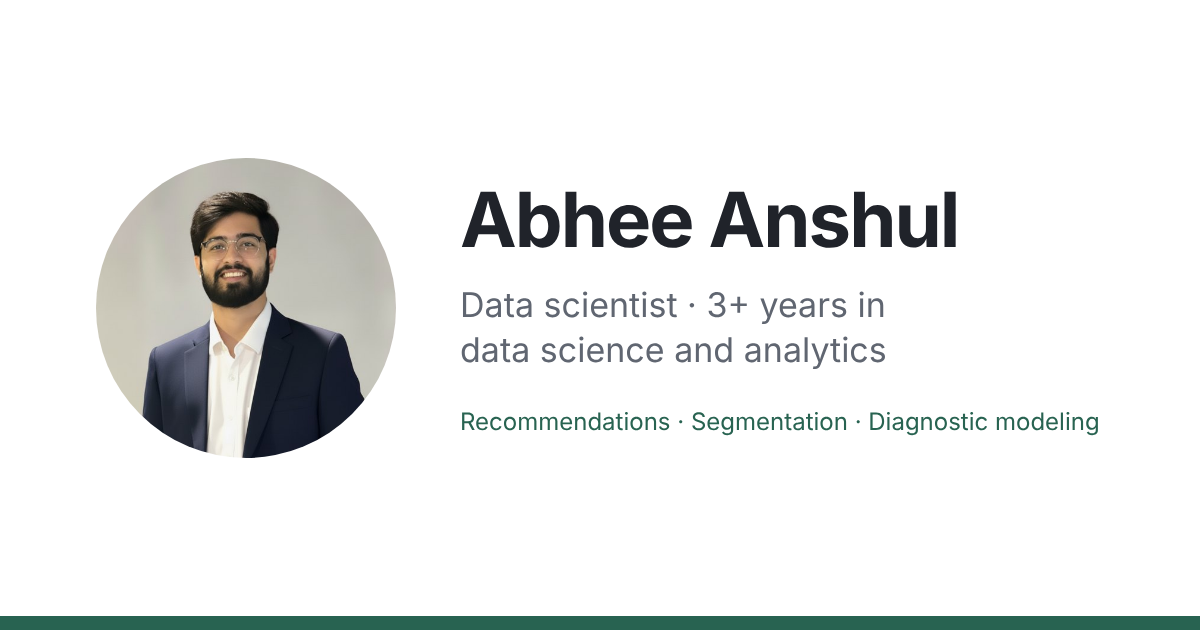
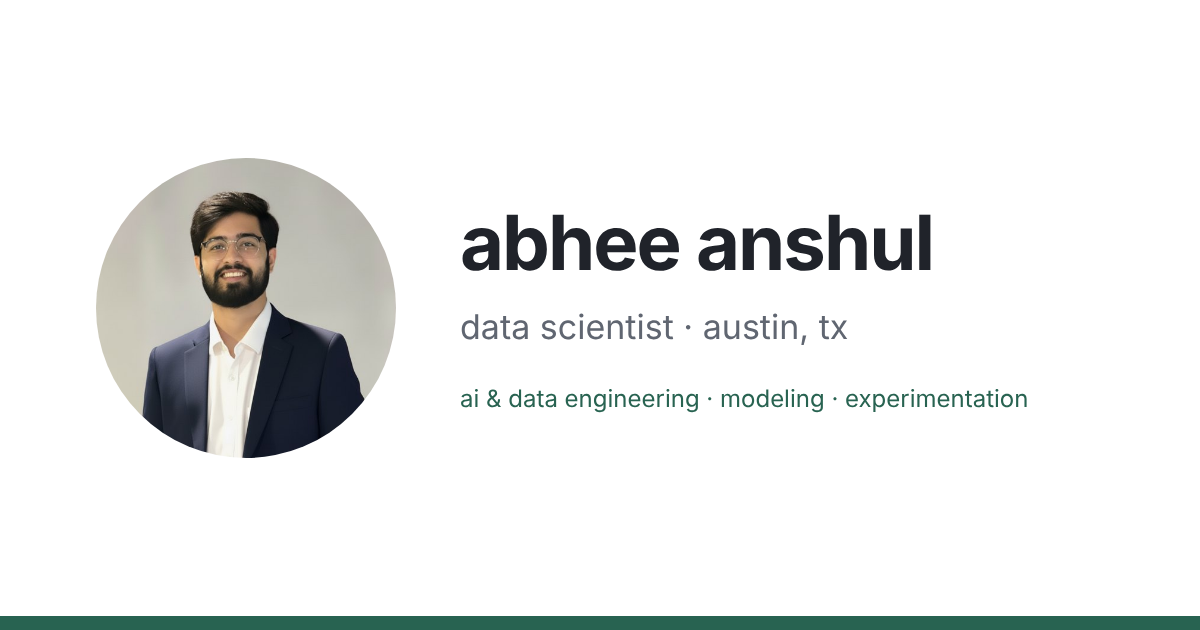
Portfolio  -19th oct v3.0

Changed region(s): [[0.37, 0.3016, 0.8017, 0.573], [0.37, 0.6032, 0.925, 0.6937]]

diff --git a/index.html b/index.html
@@ -1,5 +1,5 @@
 <!doctype html><html lang="en"><head><meta charset="utf-8"><meta name="viewport" content="width=device-width,initial-scale=1"><title>Abhee Anshul | Data Science &amp; Analytics</title><meta name="description" content="Selected work in recommendations, privacy controls, segmentation and diagnostic modeling. MS Information Studies at UT Austin."><meta name="theme-color" content="#ffffff"><meta property="og:title" content="Abhee Anshul | Data Science &amp; Analytics"><meta property="og:description" content="Selected work in recommendations, privacy controls, segmentation and diagnostic modeling. MS Information Studies at UT Austin."><meta property="og:type" content="website"><meta property="og:image" content="https://abheeanshul.github.io/assets/og-card.png"><meta property="og:image:width" content="1200"><meta property="og:image:height" content="630"><meta name="twitter:card" content="summary_large_image"><link rel="icon" href="assets/favicon.svg" type="image/svg+xml"><link rel="stylesheet" href="assets/style.css"></head><body><a class="skip" href="#main">Skip to content</a><div class="shell"><header class="topbar"><nav aria-label="Main navigation"><a href="./#experience">Experience</a><a href="./#work">Projects</a><a href="./#about">About</a><a href="./#contact">Contact</a></nav></header><main id="main" class="personal-home">
-    <section class="profile" aria-labelledby="name"><img class="portrait" src="assets/abhee.jpg" alt="Abhee Anshul" width="176" height="176"><div><h1 id="name">Abhee Anshul</h1><p class="profile-line">Data scientist · 3+ years in data science and analytics · Austin, TX</p><div class="profile-links"><a href="mailto:abheeanshul@gmail.com">Email</a><a href="https://github.com/abheeanshul">GitHub</a><a href="https://www.linkedin.com/in/abhee-anshul-b18069175/">LinkedIn</a></div></div></section>
+    <section class="profile" aria-labelledby="name"><img class="portrait" src="assets/abhee.jpg" alt="Abhee Anshul" width="176" height="176"><div><h1 id="name">Abhee Anshul</h1><p class="profile-line">Data scientist · Austin, TX</p><div class="profile-links"><a href="mailto:abheeanshul@gmail.com">Email</a><a href="https://github.com/abheeanshul">GitHub</a><a href="https://www.linkedin.com/in/abhee-anshul-b18069175/">LinkedIn</a></div></div></section>
     <section id="about" class="home-section"><h2>About me</h2><ul class="about-list"><li>technical teaching assistant @UT Austin</li><li>prev @Amgen, BMS &amp; ZS · life sciences analytics</li><li>data science &amp; advanced analytics @UT Austin</li><li>grew up in Ranchi, India</li></ul>
 </section>
     <section id="recent" class="home-section"><h2>Recent</h2><ol class="timeline recent">
@@ -8,7 +8,7 @@
 <li><time>Mar 2025</time><p>BMS launched a first-line field program built on my <a href="work/first-line-adoption/">prescriber segmentation</a>. In its first 13 weeks, 33% of targeted prescribers with a first-line opportunity started a patient, compared with a 24% historical average. The brand’s first-line uptake was later <a href="https://finance.yahoo.com/healthcare/articles/reblozyl-power-bristol-myers-top-173000857.html" target="_blank" rel="noopener noreferrer">called out as a growth driver</a>.</p></li>
 <li><time>Feb 2024</time><p>At ZS, built a monthly <a href="work/sales-drivers/">sales-driver model</a> that explained month-to-month changes for a specialty-care brand.</p></li>
 </ol></section>
-    <section class="home-section" id="experience"><h2>Work experience</h2><ol class="timeline"><li><time>Jun – Aug 2026</time><h3><a class="company-link" href="https://www.amgen.com/" target="_blank" rel="noopener noreferrer"><img class="company-logo" src="assets/amgen-logo.svg" alt="" width="28" height="28">Amgen</a> <span><b class="role-dot" aria-hidden="true">· </b>Business Analyst Intern, AI &amp; data engineering</span></h3><p>Built a patient-data privacy prototype for a commercial analytics workflow, combining AWS scans, business rules and an advisory ML scorer in Databricks.</p></li><li><time>Apr 2024 – Jul 2025</time><h3><a class="company-link" href="https://www.bms.com/" target="_blank" rel="noopener noreferrer"><img class="company-logo" src="assets/bms-logo.ico" alt="" width="28" height="28">Bristol Myers Squibb</a> <span><b class="role-dot" aria-hidden="true">· </b>Data Analyst II, launch analytics</span></h3><p>Owned prescriber segmentation, field targeting measurement and competitive analytics for a hematology brand. Cut weekly competitive reporting turnaround from two days to under an hour.</p></li><li><time>Aug 2022 – Mar 2024</time><h3><a class="company-link" href="https://www.zs.com/" target="_blank" rel="noopener noreferrer"><img class="company-logo" src="assets/zs-logo.ico" alt="" width="28" height="28">ZS Associates</a> <span><b class="role-dot" aria-hidden="true">· </b>Decision Analytics Associate, sales modeling &amp; BI</span></h3><p>Built monthly sales-driver models across 13 products in five therapeutic areas, and rebuilt a 60+ slide weekly report as a one-click Snowflake, Python and Power BI pipeline.</p></li></ol><p class="earlier">Earlier: Business Operations Associate Intern at ZS · Feb – Jul 2022</p></section>
+    <section class="home-section" id="experience"><h2>Work experience</h2><ol class="timeline"><li><time>Jun – Aug 2026</time><h3><a class="company-link" href="https://www.amgen.com/" target="_blank" rel="noopener noreferrer"><img class="company-logo" src="assets/amgen-logo.svg" alt="" width="28" height="28">Amgen</a> <span><b class="role-dot" aria-hidden="true">· </b>Business Analyst Intern, AI &amp; data engineering</span></h3><p>Built a patient-data privacy prototype for a commercial analytics workflow, combining AWS scans, business rules and an advisory ML scorer in Databricks.</p></li><li><time>Apr 2024 – Jul 2025</time><h3><a class="company-link" href="https://www.bms.com/" target="_blank" rel="noopener noreferrer"><img class="company-logo" src="assets/bms-logo.ico" alt="" width="28" height="28">Bristol Myers Squibb</a> <span><b class="role-dot" aria-hidden="true">· </b>Senior Data Analyst, launch analytics</span></h3><p>Owned prescriber segmentation, field targeting measurement and competitive analytics for a hematology brand. Cut weekly competitive reporting turnaround from two days to under an hour.</p></li><li><time>Aug 2022 – Mar 2024</time><h3><a class="company-link" href="https://www.zs.com/" target="_blank" rel="noopener noreferrer"><img class="company-logo" src="assets/zs-logo.ico" alt="" width="28" height="28">ZS Associates</a> <span><b class="role-dot" aria-hidden="true">· </b>Decision Analytics Associate, sales modeling &amp; BI</span></h3><p>Built monthly sales-driver models across 13 products in five therapeutic areas, and rebuilt a 60+ slide weekly report as a one-click Snowflake, Python and Power BI pipeline.</p></li></ol><p class="earlier">Earlier: Business Operations Associate Intern at ZS · Feb – Jul 2022</p></section>
     <section id="work" class="home-section"><h2>Projects</h2><div class="project-group"><h3 class="group-title">AI &amp; data engineering</h3><article class="project-row"><a class="project-image" href="work/privacy-guardrail/" aria-label="Explore Adding patient context to privacy scans"><img src="assets/thumb-privacy.svg" alt="A redacted record asking whether it describes a patient or a provider, stamped review" loading="lazy"></a><div><h3><a href="work/privacy-guardrail/">Adding patient context to privacy scans</a></h3><p>Scans see patterns, not people. Built a context layer that separates patient records from provider records, sends uncertain files to review and logs a reason for every verdict. Python, PySpark and Databricks.</p></div></article><article class="project-row"><a class="project-image" href="work/account-dashboard/" aria-label="Explore Replacing a 60+ slide deck with a one-click dashboard"><img src="assets/thumb-dashboard.svg" alt="A stack of report slides and a spreadsheet turned into a dashboard with one click" loading="lazy"></a><div><h3><a href="work/account-dashboard/">Replacing a 60+ slide deck with a one-click dashboard</a></h3><p>Rebuilt a weekly account-health report, a 60+ slide deck made by hand, as SQL on Snowflake, Python QC checks and Power BI. Weekly processing went from about 8 hours to about 20 minutes.</p></div></article></div><div class="project-group"><h3 class="group-title">Modeling &amp; analytics</h3><article class="project-row"><a class="project-image" href="work/first-line-adoption/" aria-label="Explore Segmenting 3,500 prescribers for a first-line launch"><img src="assets/thumb-segmentation.svg" alt="Prescribers drawn as people in four segments, two of them targeted" loading="lazy"></a><div><h3><a href="work/first-line-adoption/">Segmenting 3,500 prescribers for a first-line launch</a></h3><p>Turned prescribing behavior into four actionable segments for a hematology brand. Among targeted prescribers with a first-line opportunity, 33% started a patient in the program’s first 13 weeks, compared with a 24% historical average.</p></div></article><article class="project-row"><a class="project-image" href="work/sales-drivers/" aria-label="Explore Explaining monthly sales with regression"><img src="assets/thumb-sales.svg" alt="A slide asking why sales moved this month, with a waterfall and handwritten notes" loading="lazy"></a><div><h3><a href="work/sales-drivers/">Explaining monthly sales with regression</a></h3><p>Built monthly sales diagnostics for a specialty-care brand. Used driver waterfalls and fitted response curves to explain changes and explore business scenarios.</p></div></article></div><div class="project-group"><h3 class="group-title">Data science &amp; experimentation</h3><article class="project-row"><a class="project-image" href="work/next-basket/" aria-label="Explore Recommending the next grocery basket"><img src="assets/thumb-next-basket.svg" alt="A grocery receipt of ten recommended items with one new product highlighted" loading="lazy"></a><div><h3><a href="work/next-basket/">Recommending the next grocery basket</a></h3><p>Should a grocery recommender save a slot for something you have never bought? Built a LightGBM ranker on 3.4 million Instacart orders, measured offline what that slot costs in recall@10 and designed the experiment to test whether it pays off.</p></div></article></div></section>
-    <section class="home-section" id="education"><h2>Education</h2><div class="education-row"><div class="school"><img src="assets/ut-logo.png" alt="" width="32" height="32"><div><h3><a href="https://www.utexas.edu/" target="_blank" rel="noopener noreferrer">The University of Texas at Austin</a></h3><p>MS Information Studies · Data Science and Advanced Analytics</p></div></div><span>2025–2027</span></div><div class="education-row"><div class="school"><img src="assets/rvce-logo.png" alt="" width="32" height="32"><div><h3><a href="https://rvce.edu.in/" target="_blank" rel="noopener noreferrer">RV College of Engineering</a></h3><p>BE Industrial Engineering and Management · Dean’s Merit List</p></div></div><span>2018–2022</span></div></section>
+    <section class="home-section" id="education"><h2>Education</h2><div class="edu-row"><img src="assets/ut-logo.png" alt="" width="22" height="22"><a class="edu-name" href="https://www.utexas.edu/" target="_blank" rel="noopener noreferrer">The University of Texas at Austin</a><span class="edu-deg"><span class="edu-dot">· </span>Master - Data Science</span><span class="edu-year">2027</span></div><div class="edu-row"><img src="assets/rvce-logo.png" alt="" width="22" height="22"><a class="edu-name" href="https://rvce.edu.in/" target="_blank" rel="noopener noreferrer">RV College of Engineering</a><span class="edu-deg"><span class="edu-dot">· </span>BE - Industrial Engineering and Management (Dean’s Merit List)</span><span class="edu-year">2022</span></div></section>
     <section id="contact" class="home-section personal-contact"><h2>Get in touch</h2><p>Open to data science and analytics opportunities.</p><div class="contact-links"><a href="mailto:abheeanshul@gmail.com">abheeanshul@gmail.com</a><a href="https://www.linkedin.com/in/abhee-anshul-b18069175/">LinkedIn</a></div></section></main><footer class="footer"><span>© 2026 Abhee Anshul</span><span>Austin, TX</span></footer></div></body></html>

diff --git a/work/next-basket/index.html b/work/next-basket/index.html
@@ -1,1 +1,1 @@
-<!doctype html><html lang="en"><head><meta charset="utf-8"><meta name="viewport" content="width=device-width,initial-scale=1"><title>Recommending the next grocery basket | Abhee Anshul</title><meta name="description" content="A next-basket recommender and the experiment needed to evaluate it."><meta name="theme-color" content="#ffffff"><meta property="og:title" content="Recommending the next grocery basket | Abhee Anshul"><meta property="og:description" content="A next-basket recommender and the experiment needed to evaluate it."><meta property="og:type" content="article"><meta property="og:image" content="https://abheeanshul.github.io/assets/og-card.png"><meta property="og:image:width" content="1200"><meta property="og:image:height" content="630"><meta name="twitter:card" content="summary_large_image"><link rel="icon" href="../../assets/favicon.svg" type="image/svg+xml"><link rel="stylesheet" href="../../assets/style.css"></head><body><a class="skip" href="#main">Skip to content</a><div class="article-shell"><header class="topbar"><a class="wordmark" href="../../">Abhee Anshul</a><nav aria-label="Main navigation"><a href="../../#experience">Experience</a><a href="../../#work">Projects</a><a href="../../#about">About</a><a href="../../#contact">Contact</a></nav></header><main id="main"><a class="back" href="../../#work">← All projects</a><article><header class="article-header"><div class="eyebrow">Independent project · Recommendation systems · Experimentation</div><h1>Recommending the next grocery basket</h1><p class="takeaway"><strong>tl;dr:</strong> Should a grocery recommender save a slot for something you have never bought? I built a LightGBM ranker on 3.4 million Instacart orders and measured offline that one reserved slot costs 1.3 percentage points of recall@10. Whether it pays off in spend needs an experiment, so I designed one: 4,849 households per arm to detect a $19 difference.</p><a class="code-link" href="https://github.com/abhee03/next-basket-recsys" target="_blank" rel="noopener noreferrer">View code on GitHub ↗</a></header><figure class="article-hero"><a href="../../assets/recall-by-model.svg" target="_blank" rel="noopener noreferrer" aria-label="Open figure"><img src="../../assets/recall-by-model.svg" alt="Validation recall at 10 by model: LightGBM 0.3591 versus 0.3430 for frequency and recency." width="1200"></a><figcaption>Validation results on 26,258 held-out users, with bootstrapped intervals. <a href="../../assets/recall-by-model.svg" target="_blank" rel="noopener noreferrer">Open figure ↗</a></figcaption></figure><section class="prose-section"><h2>The problem</h2><p>Given a shopper’s history, what goes in their next grocery basket? And should the recommender save a slot for something they have never bought? I built and evaluated the ranker on Instacart (3.4 million orders) and used a separate dunnhumby dataset for spend data. The two are never joined.</p></section><section class="prose-section"><h2>What I built</h2><p>I started with simple baselines: global popularity, popularity within the shopper’s history, purchase frequency and a tuned frequency-and-recency rule. LightGBM reached recall@10 of 0.3591, against 0.3430 for the best rule. Useful but modest. Restricting candidates to a shopper’s own history mattered more than any ranker.</p><p>DuckDB handles the large joins out of core, features only use prior orders and the repo includes data checks, a FastAPI service, a Streamlit demo and Docker.</p></section><section class="prose-section"><h2>The real limit</h2><p>About 40% of a next basket is items the shopper has never bought, and a repeat-only system can never surface them. I added a co-occurrence channel for new items, but the ranker still rarely picked them, so I tested reserving slots. All results here are offline: top-10 lists for 26,258 held-out users scored against their actual next baskets.</p><figure><a href="../../assets/discovery-tradeoff.svg" target="_blank" rel="noopener noreferrer" aria-label="Open figure"><img src="../../assets/discovery-tradeoff.svg" alt="Recall at 10 falls from 0.3604 to 0.3470 with one discovery slot while users with a new item in their top 10 rise from 6.66% to 99.96%." loading="lazy" width="1200"></a><figcaption>Offline recall@10 by number of reserved discovery slots, two-channel model. <a href="../../assets/discovery-tradeoff.svg" target="_blank" rel="noopener noreferrer">Open figure ↗</a></figcaption></figure><p>Against the unconstrained two-channel model, one reserved slot lowered recall@10 from 0.3604 to 0.3470, 1.3 percentage points (about 3.7% relative). It included a new item in the top-10 recommendations for 99.96% of evaluated users, up from 6.66%.</p></section><section class="prose-section"><h2>Does it pay off?</h2><p>Instacart has no prices, so I used dunnhumby to plan a spend test. Raw comparisons there mislead: households picked for campaigns spent $118 to $287 more than other households. Difference-in-differences instead compares the change in spending among campaign households, from an equally long window before the campaign to the campaign period, with the same change among comparison households. On that basis, four of five campaigns were indistinguishable from zero.</p><p>A randomized test of one discovery slot would need 4,849 households per arm to detect a $19 difference. I designed it, but I have not run it.</p></section></article><nav class="article-bottom" aria-label="Case study navigation"><a href="../../#work"><span>Back to</span>Projects</a><a href="../privacy-guardrail/"><span>Next project</span>Adding patient context to privacy scans →</a></nav></main><footer class="footer"><span>© 2026 Abhee Anshul</span><span>Austin, TX</span></footer></div></body></html>
+<!doctype html><html lang="en"><head><meta charset="utf-8"><meta name="viewport" content="width=device-width,initial-scale=1"><title>Recommending the next grocery basket | Abhee Anshul</title><meta name="description" content="A next-basket recommender and the experiment needed to evaluate it."><meta name="theme-color" content="#ffffff"><meta property="og:title" content="Recommending the next grocery basket | Abhee Anshul"><meta property="og:description" content="A next-basket recommender and the experiment needed to evaluate it."><meta property="og:type" content="article"><meta property="og:image" content="https://abheeanshul.github.io/assets/og-card.png"><meta property="og:image:width" content="1200"><meta property="og:image:height" content="630"><meta name="twitter:card" content="summary_large_image"><link rel="icon" href="../../assets/favicon.svg" type="image/svg+xml"><link rel="stylesheet" href="../../assets/style.css"></head><body><a class="skip" href="#main">Skip to content</a><div class="article-shell"><header class="topbar"><a class="wordmark" href="../../">Abhee Anshul</a><nav aria-label="Main navigation"><a href="../../#experience">Experience</a><a href="../../#work">Projects</a><a href="../../#about">About</a><a href="../../#contact">Contact</a></nav></header><main id="main"><a class="back" href="../../#work">← All projects</a><article><header class="article-header"><div class="eyebrow">Independent project · Recommendation systems · Experimentation</div><h1>Recommending the next grocery basket</h1><p class="takeaway"><strong>tl;dr:</strong> Should a grocery recommender save a slot for something you have never bought? I built a LightGBM ranker on 3.4 million Instacart orders and measured offline that one reserved slot costs 1.3 percentage points of recall@10. Whether it pays off in spend needs an experiment, so I designed one: 4,849 households per arm to detect a $19 difference.</p></header><figure class="article-hero"><a href="../../assets/recall-by-model.svg" target="_blank" rel="noopener noreferrer" aria-label="Open figure"><img src="../../assets/recall-by-model.svg" alt="Validation recall at 10 by model: LightGBM 0.3591 versus 0.3430 for frequency and recency." width="1200"></a><figcaption>Validation results on 26,258 held-out users, with bootstrapped intervals. <a href="../../assets/recall-by-model.svg" target="_blank" rel="noopener noreferrer">Open figure ↗</a></figcaption></figure><section class="prose-section"><h2>The problem</h2><p>Given a shopper’s history, what goes in their next grocery basket? And should the recommender save a slot for something they have never bought? I built and evaluated the ranker on Instacart (3.4 million orders) and used a separate dunnhumby dataset for spend data. The two are never joined.</p></section><section class="prose-section"><h2>What I built</h2><p>I started with simple baselines: global popularity, popularity within the shopper’s history, purchase frequency and a tuned frequency-and-recency rule. LightGBM reached recall@10 of 0.3591, against 0.3430 for the best rule. Useful but modest. Restricting candidates to a shopper’s own history mattered more than any ranker.</p><p>DuckDB handles the large joins out of core, features only use prior orders and the repo includes data checks, a FastAPI service, a Streamlit demo and Docker.</p></section><section class="prose-section"><h2>The real limit</h2><p>About 40% of a next basket is items the shopper has never bought, and a repeat-only system can never surface them. I added a co-occurrence channel for new items, but the ranker still rarely picked them, so I tested reserving slots. All results here are offline: top-10 lists for 26,258 held-out users scored against their actual next baskets.</p><figure><a href="../../assets/discovery-tradeoff.svg" target="_blank" rel="noopener noreferrer" aria-label="Open figure"><img src="../../assets/discovery-tradeoff.svg" alt="Recall at 10 falls from 0.3604 to 0.3470 with one discovery slot while users with a new item in their top 10 rise from 6.66% to 99.96%." loading="lazy" width="1200"></a><figcaption>Offline recall@10 by number of reserved discovery slots, two-channel model. <a href="../../assets/discovery-tradeoff.svg" target="_blank" rel="noopener noreferrer">Open figure ↗</a></figcaption></figure><p>Against the unconstrained two-channel model, one reserved slot lowered recall@10 from 0.3604 to 0.3470, 1.3 percentage points (about 3.7% relative). It included a new item in the top-10 recommendations for 99.96% of evaluated users, up from 6.66%.</p></section><section class="prose-section"><h2>Does it pay off?</h2><p>Instacart has no prices, so I used dunnhumby to plan a spend test. Raw comparisons there mislead: households picked for campaigns spent $118 to $287 more than other households. Difference-in-differences instead compares the change in spending among campaign households, from an equally long window before the campaign to the campaign period, with the same change among comparison households. On that basis, four of five campaigns were indistinguishable from zero.</p><p>A randomized test of one discovery slot would need 4,849 households per arm to detect a $19 difference. I designed it, but I have not run it.</p></section></article><nav class="article-bottom" aria-label="Case study navigation"><a href="../../#work"><span>Back to</span>Projects</a><a href="../privacy-guardrail/"><span>Next project</span>Adding patient context to privacy scans →</a></nav></main><footer class="footer"><span>© 2026 Abhee Anshul</span><span>Austin, TX</span></footer></div></body></html>

diff --git a/work/account-dashboard/index.html b/work/account-dashboard/index.html
@@ -1,1 +1,1 @@
-<!doctype html><html lang="en"><head><meta charset="utf-8"><meta name="viewport" content="width=device-width,initial-scale=1"><title>Replacing a 60+ slide deck with a one-click dashboard | Abhee Anshul</title><meta name="description" content="A weekly account-health report rebuilt as a Snowflake, Python and Power BI pipeline."><meta name="theme-color" content="#ffffff"><meta property="og:title" content="Replacing a 60+ slide deck with a one-click dashboard | Abhee Anshul"><meta property="og:description" content="A weekly account-health report rebuilt as a Snowflake, Python and Power BI pipeline."><meta property="og:type" content="article"><meta property="og:image" content="https://abheeanshul.github.io/assets/og-card.png"><meta property="og:image:width" content="1200"><meta property="og:image:height" content="630"><meta name="twitter:card" content="summary_large_image"><link rel="icon" href="../../assets/favicon.svg" type="image/svg+xml"><link rel="stylesheet" href="../../assets/style.css"></head><body><a class="skip" href="#main">Skip to content</a><div class="article-shell"><header class="topbar"><a class="wordmark" href="../../">Abhee Anshul</a><nav aria-label="Main navigation"><a href="../../#experience">Experience</a><a href="../../#work">Projects</a><a href="../../#about">About</a><a href="../../#contact">Contact</a></nav></header><main id="main"><a class="back" href="../../#work">← All projects</a><article><header class="article-header"><div class="eyebrow">Professional work · Data engineering · BI</div><h1>Replacing a 60+ slide deck with a one-click dashboard</h1><p class="takeaway"><strong>tl;dr:</strong> A weekly account-health report was a 60+ slide deck built by hand in Excel and PowerPoint. I rebuilt it as SQL on Snowflake, Python QC checks and Power BI, so the refresh is one click. Processing dropped from about 8 hours to about 20 minutes, and the setup was later adopted across other therapeutic areas.</p><div class="article-meta"><div><span>My role</span>Decision Analytics Associate · ZS Associates</div><div><span>Methods &amp; tools</span>SQL, Snowflake, Python, Power BI</div></div></header><figure class="article-hero"><a href="../../assets/dashboard-pipeline.svg" target="_blank" rel="noopener noreferrer" aria-label="Open figure"><img src="../../assets/dashboard-pipeline.svg" alt="Excel and PowerPoint replaced by SQL on Snowflake, Python with QC checks and a Power BI dashboard." width="1200"></a><figcaption>The pipeline that replaced the manual deck. <a href="../../assets/dashboard-pipeline.svg" target="_blank" rel="noopener noreferrer">Open figure ↗</a></figcaption></figure><section class="prose-section"><h2>The problem</h2><p>An eyecare brand team reviewed account health every week: which accounts were ordering, which had gone quiet and which had come back. The report was a 60+ slide deck built by hand from Excel extracts. It took most of a day each week.</p></section><section class="prose-section"><h2>What I built</h2><p>I migrated every piece of it. SQL on Snowflake pulls the weekly sales, account and physician data. Python joins it into a master workbook and runs QC checks. Power BI reads that workbook, so the weekly refresh is one click. The QC step checks each week against the last published numbers and flags restatements above 5% for review.</p><p>The dashboard tracks units, ordering and new accounts, accounts that lapse (no order in 60+ days) or re-engage, first-order size, time to reorder and physician segments by territory.</p><figure><a href="../../assets/dashboard-layout.svg" target="_blank" rel="noopener noreferrer" aria-label="Open figure"><img src="../../assets/dashboard-layout.svg" alt="Dashboard layout: account lifecycle from new to active to lapsed with a re-engaged loop, first order size and days to reorder." loading="lazy" width="1200"></a><figcaption>An account moves from new to active, lapses after 60+ days without an order and can re-engage. <a href="../../assets/dashboard-layout.svg" target="_blank" rel="noopener noreferrer">Open figure ↗</a></figcaption></figure></section><section class="prose-section"><h2>What happened</h2><p>Weekly processing went from about 8 hours to about 20 minutes. I delivered it within a 3-month deadline, and leadership could check the latest KPIs in the dashboard instead of waiting for the weekly deck. The same setup was later adopted across other therapeutic areas.</p></section></article><nav class="article-bottom" aria-label="Case study navigation"><a href="../../#work"><span>Back to</span>Projects</a><a href="../first-line-adoption/"><span>Next project</span>Segmenting 3,500 prescribers for a first-line launch →</a></nav></main><footer class="footer"><span>© 2026 Abhee Anshul</span><span>Austin, TX</span></footer></div></body></html>
+<!doctype html><html lang="en"><head><meta charset="utf-8"><meta name="viewport" content="width=device-width,initial-scale=1"><title>Replacing a 60+ slide deck with a one-click dashboard | Abhee Anshul</title><meta name="description" content="A weekly account-health report rebuilt as a Snowflake, Python and Power BI pipeline."><meta name="theme-color" content="#ffffff"><meta property="og:title" content="Replacing a 60+ slide deck with a one-click dashboard | Abhee Anshul"><meta property="og:description" content="A weekly account-health report rebuilt as a Snowflake, Python and Power BI pipeline."><meta property="og:type" content="article"><meta property="og:image" content="https://abheeanshul.github.io/assets/og-card.png"><meta property="og:image:width" content="1200"><meta property="og:image:height" content="630"><meta name="twitter:card" content="summary_large_image"><link rel="icon" href="../../assets/favicon.svg" type="image/svg+xml"><link rel="stylesheet" href="../../assets/style.css"></head><body><a class="skip" href="#main">Skip to content</a><div class="article-shell"><header class="topbar"><a class="wordmark" href="../../">Abhee Anshul</a><nav aria-label="Main navigation"><a href="../../#experience">Experience</a><a href="../../#work">Projects</a><a href="../../#about">About</a><a href="../../#contact">Contact</a></nav></header><main id="main"><a class="back" href="../../#work">← All projects</a><article><header class="article-header"><div class="eyebrow">Professional work · Data engineering · BI</div><h1>Replacing a 60+ slide deck with a one-click dashboard</h1><p class="takeaway"><strong>tl;dr:</strong> A weekly account-health report was a 60+ slide deck built by hand in Excel and PowerPoint. I rebuilt it as SQL on Snowflake, Python QC checks and Power BI, so the refresh is one click. Processing dropped from about 8 hours to about 20 minutes, and the setup was later adopted across other therapeutic areas.</p></header><figure class="article-hero"><a href="../../assets/dashboard-pipeline.svg" target="_blank" rel="noopener noreferrer" aria-label="Open figure"><img src="../../assets/dashboard-pipeline.svg" alt="Excel and PowerPoint replaced by SQL on Snowflake, Python with QC checks and a Power BI dashboard." width="1200"></a><figcaption>The pipeline that replaced the manual deck. <a href="../../assets/dashboard-pipeline.svg" target="_blank" rel="noopener noreferrer">Open figure ↗</a></figcaption></figure><section class="prose-section"><h2>The problem</h2><p>An eyecare brand team reviewed account health every week: which accounts were ordering, which had gone quiet and which had come back. The report was a 60+ slide deck built by hand from Excel extracts. It took most of a day each week.</p></section><section class="prose-section"><h2>What I built</h2><p>I migrated every piece of it. SQL on Snowflake pulls the weekly sales, account and physician data. Python joins it into a master workbook and runs QC checks. Power BI reads that workbook, so the weekly refresh is one click. The QC step checks each week against the last published numbers and flags restatements above 5% for review.</p><p>The dashboard tracks units, ordering and new accounts, accounts that lapse (no order in 60+ days) or re-engage, first-order size, time to reorder and physician segments by territory.</p><figure><a href="../../assets/dashboard-layout.svg" target="_blank" rel="noopener noreferrer" aria-label="Open figure"><img src="../../assets/dashboard-layout.svg" alt="Dashboard layout: account lifecycle from new to active to lapsed with a re-engaged loop, first order size and days to reorder." loading="lazy" width="1200"></a><figcaption>An account moves from new to active, lapses after 60+ days without an order and can re-engage. <a href="../../assets/dashboard-layout.svg" target="_blank" rel="noopener noreferrer">Open figure ↗</a></figcaption></figure></section><section class="prose-section"><h2>What happened</h2><p>Weekly processing went from about 8 hours to about 20 minutes. I delivered it within a 3-month deadline, and leadership could check the latest KPIs in the dashboard instead of waiting for the weekly deck. The same setup was later adopted across other therapeutic areas.</p></section></article><nav class="article-bottom" aria-label="Case study navigation"><a href="../../#work"><span>Back to</span>Projects</a><a href="../first-line-adoption/"><span>Next project</span>Segmenting 3,500 prescribers for a first-line launch →</a></nav></main><footer class="footer"><span>© 2026 Abhee Anshul</span><span>Austin, TX</span></footer></div></body></html>

diff --git a/assets/style.css b/assets/style.css
@@ -8,7 +8,7 @@
 @media print{body{background:white;font-size:11px}.topbar,.footer,.skip{display:none}.shell{max-width:none;padding:0}a{text-decoration:none}@page{margin:18mm}}
 
 .company-link{display:inline-flex;align-items:center;gap:10px;text-decoration:none;vertical-align:middle}.company-link:hover{text-decoration:underline}.company-logo{width:28px;height:28px;object-fit:contain}.company-link[href*=amgen] .company-logo{width:46px}
-.school{display:flex;align-items:flex-start;gap:14px}.school>img{width:32px;height:32px;object-fit:contain;flex-shrink:0}.school h3 a{text-decoration:none}.school h3 a:hover{text-decoration:underline}.role-dot{font-weight:400}.footer a{text-decoration:none}.code-link{display:inline-block;margin-top:20px;font-size:15px}.education-row a:focus-visible{outline-offset:3px}
+.school{display:flex;align-items:flex-start;gap:14px}.school>img{width:32px;height:32px;object-fit:contain;flex-shrink:0}.school h3 a{text-decoration:none}.school h3 a:hover{text-decoration:underline}.role-dot{font-weight:400}.footer a{text-decoration:none}.education-row a:focus-visible{outline-offset:3px}
 @media(max-width:700px){.role-dot{display:none}.education-row>span{padding-left:46px}.topbar nav{flex-wrap:wrap;justify-content:flex-end;gap:12px}.footer{flex-wrap:wrap}.school p{font-size:14px}}
 
 :root{--ink:#20232a;--muted:#606671;--accent:#286351;--paper:#fff;--line:#e7e8eb;--panel:#f5f7f6;--serif:var(--sans)}
@@ -25,3 +25,5 @@ body{font-size:17px;line-height:1.7}.shell{max-width:1000px}.topbar{border:0;pad
 .group-title{font-size:16px;font-weight:500;color:var(--muted);margin:0 0 12px}.project-group+.project-group{margin-top:34px}
 body{text-transform:lowercase}.personal-home h2,.eyebrow,.article-meta span,.article-bottom span,.prose-section h2{text-transform:uppercase}.prose-section h2{font-size:14px;font-weight:600;letter-spacing:1.6px;color:var(--ink);margin-bottom:16px}.takeaway strong{font-weight:600}
 .takeaway{border-left:0;padding:0;color:var(--ink)}.company-link{text-transform:none}
+.edu-row{display:flex;align-items:center;flex-wrap:wrap;column-gap:10px;row-gap:2px;margin:0 0 14px;font-size:16px}.edu-row img{width:22px;height:22px;object-fit:contain;flex-shrink:0}.edu-name{color:var(--ink);font-weight:500;text-decoration:none}.edu-name:hover{text-decoration:underline}.edu-deg{color:var(--muted)}.edu-year{margin-left:auto;color:var(--ink);font-size:15px;padding-left:12px}
+@media(max-width:700px){.edu-row{display:grid;grid-template-columns:22px 1fr auto;column-gap:10px;row-gap:2px;align-items:start}.edu-row img{grid-row:1;margin-top:2px}.edu-name{grid-column:2;grid-row:1}.edu-year{grid-column:3;grid-row:1;margin:0;padding:0}.edu-deg{grid-column:2/4;grid-row:2;font-size:15px}.edu-dot{display:none}}
